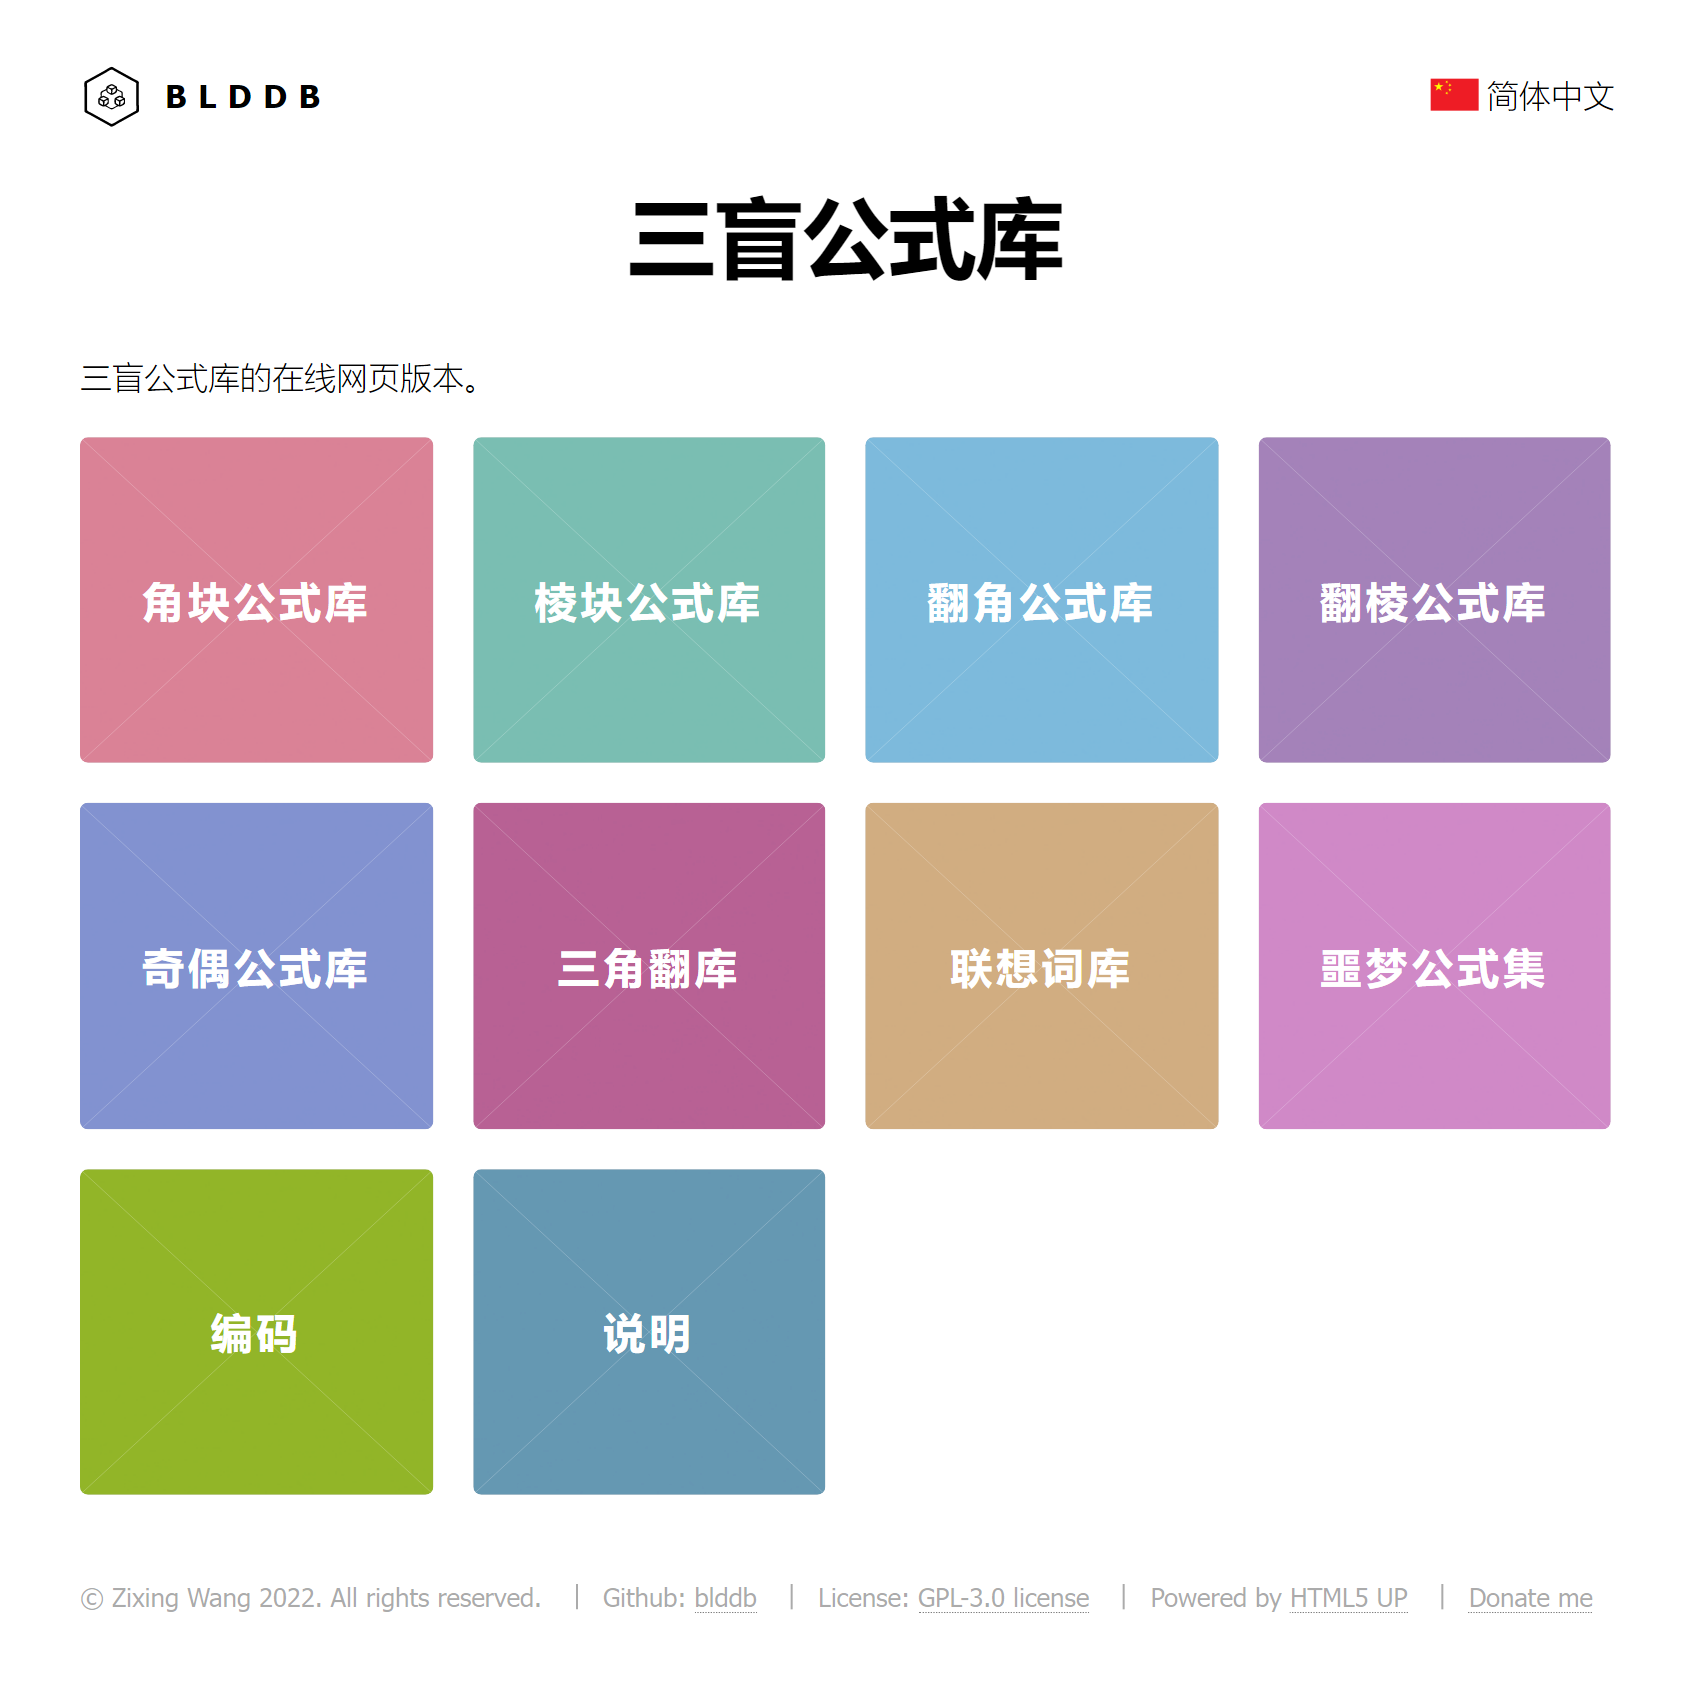
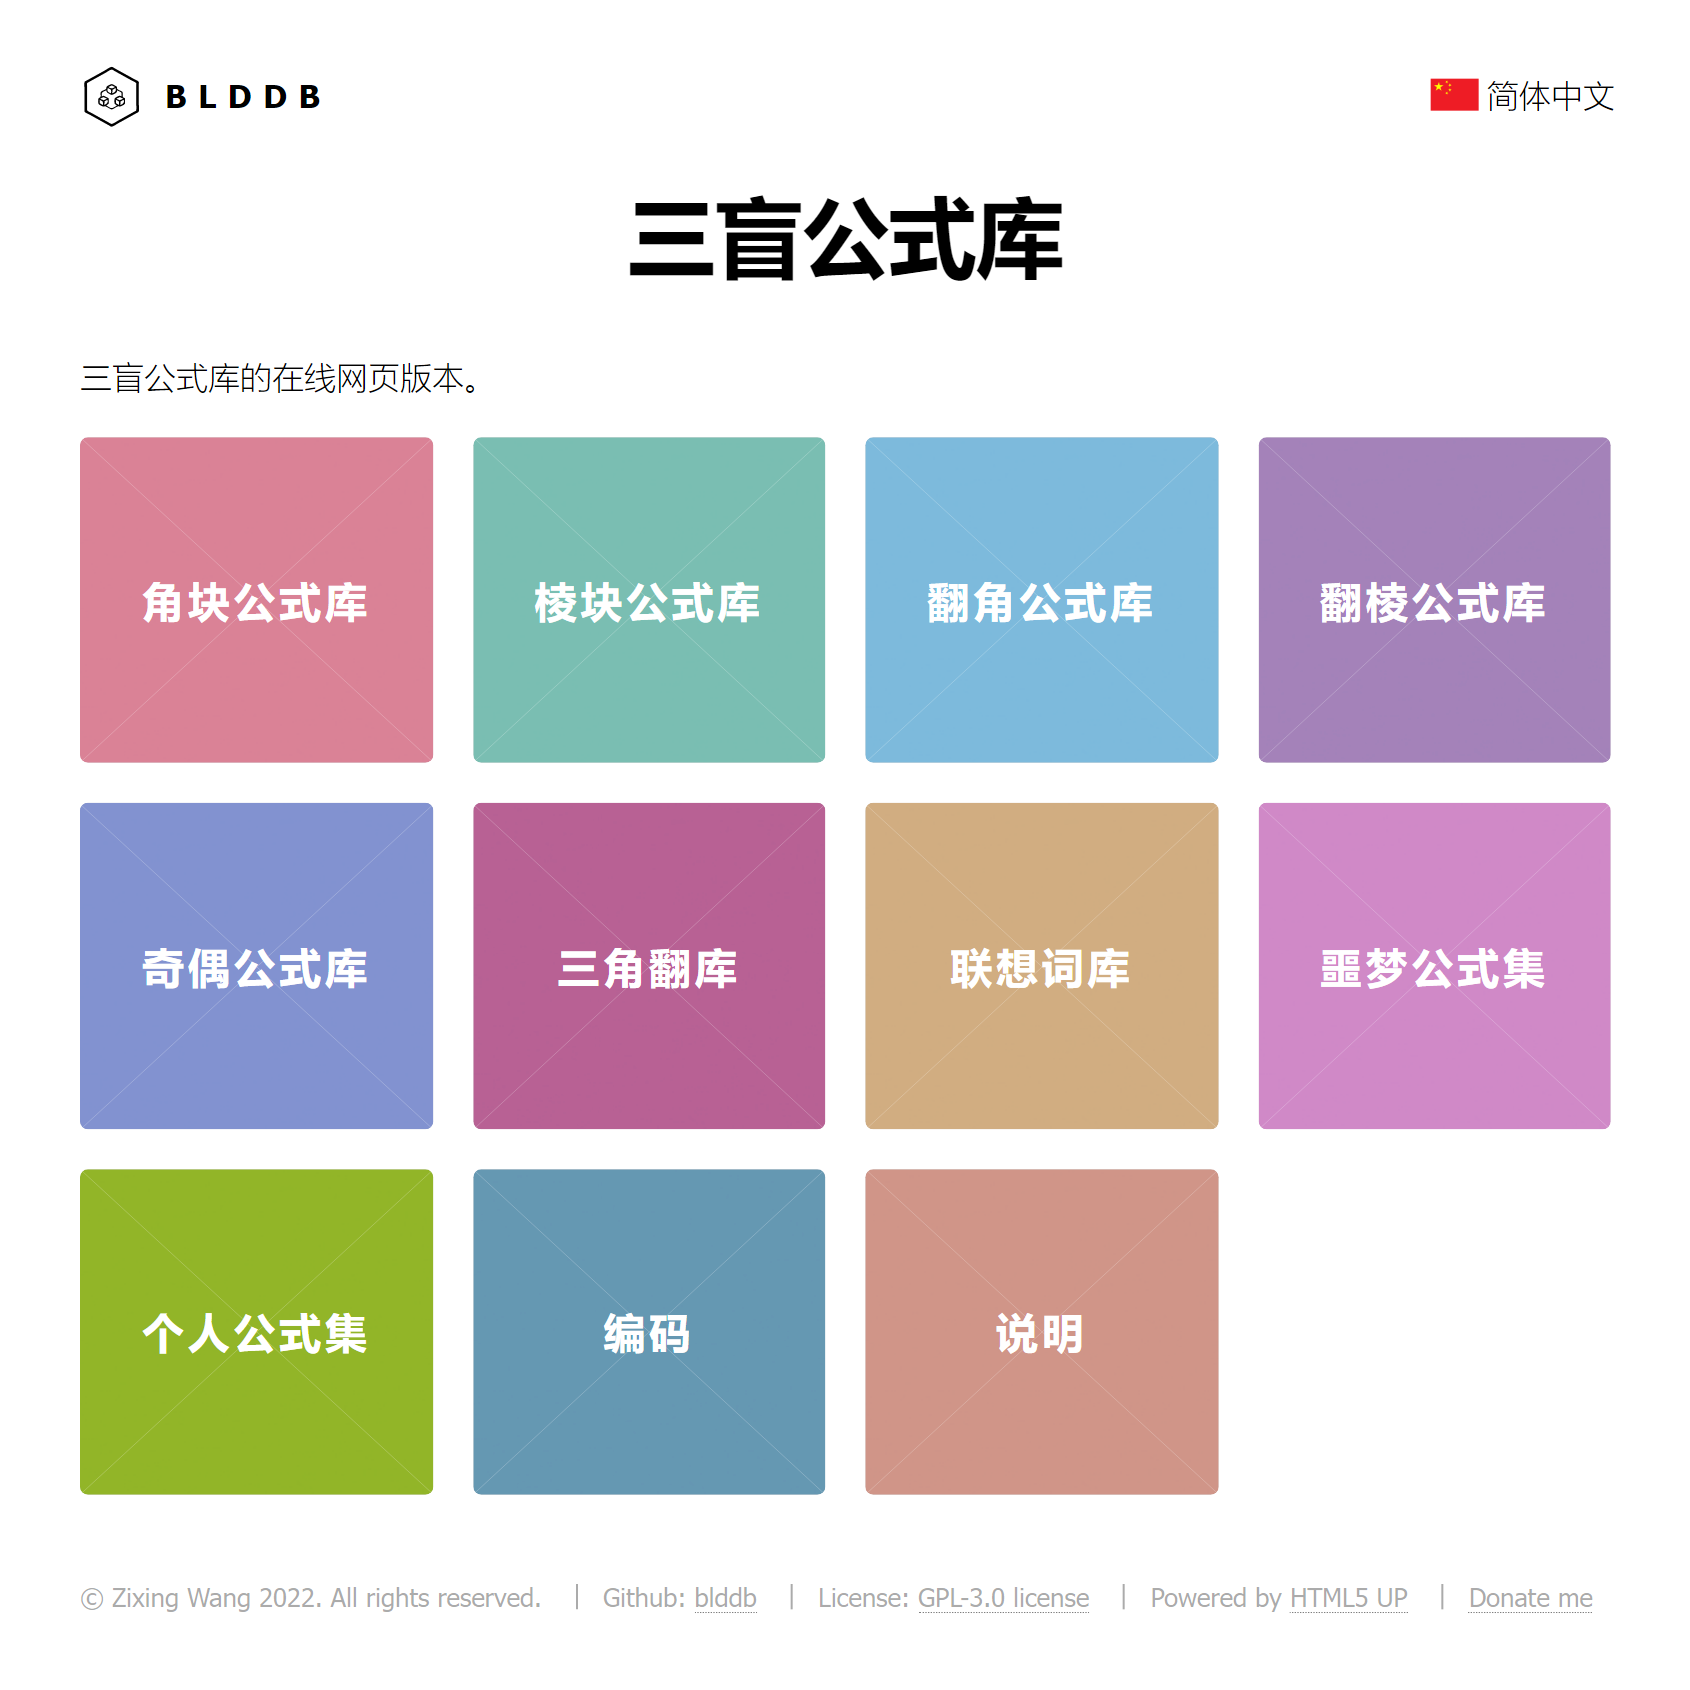
Update documentation

Changed region(s): [[0.4923, 0.6769, 0.7385, 0.8923], [0.0923, 0.7692, 0.2154, 0.8], [0.3385, 0.7692, 0.4, 0.8]]

diff --git a/zh/index.html b/zh/index.html
@@ -347,7 +347,7 @@
           <section id="idocs_modules">
             <h2>模块</h2>
             <p>
-              　　<strong>三盲公式库</strong> 包含以下10个模块。
+              　　<strong>三盲公式库</strong> 包含以下11个模块。
             </p>
             <ul>
               <li>角块公式库</li>
@@ -358,6 +358,7 @@
               <li>三角翻库</li>
               <li>联想词库</li>
               <li>噩梦公式集</li>
+              <li>个人公式集</li>
               <li>编码</li>
               <li>说明</li>
             </ul>
@@ -458,7 +459,7 @@
           <section id="idocs_3_corner_twist">
             <h3>三角翻库</h3>
             <p>
-              　　三角翻库的原理和角块公式库类似，特别之处在于加入了S层操作。
+              　　三角翻库的原理和角块公式库类似，特别之处在于加入了S层操作和叠加的思路。
             </p>
             <p><a class="popup-img" href="../assets/images/zh/blddb.net_3twists.html.png"><img
                   src="../assets/images/zh/blddb.net_3twists.html.png" class="img-fluid img-thumbnail" alt="image"
